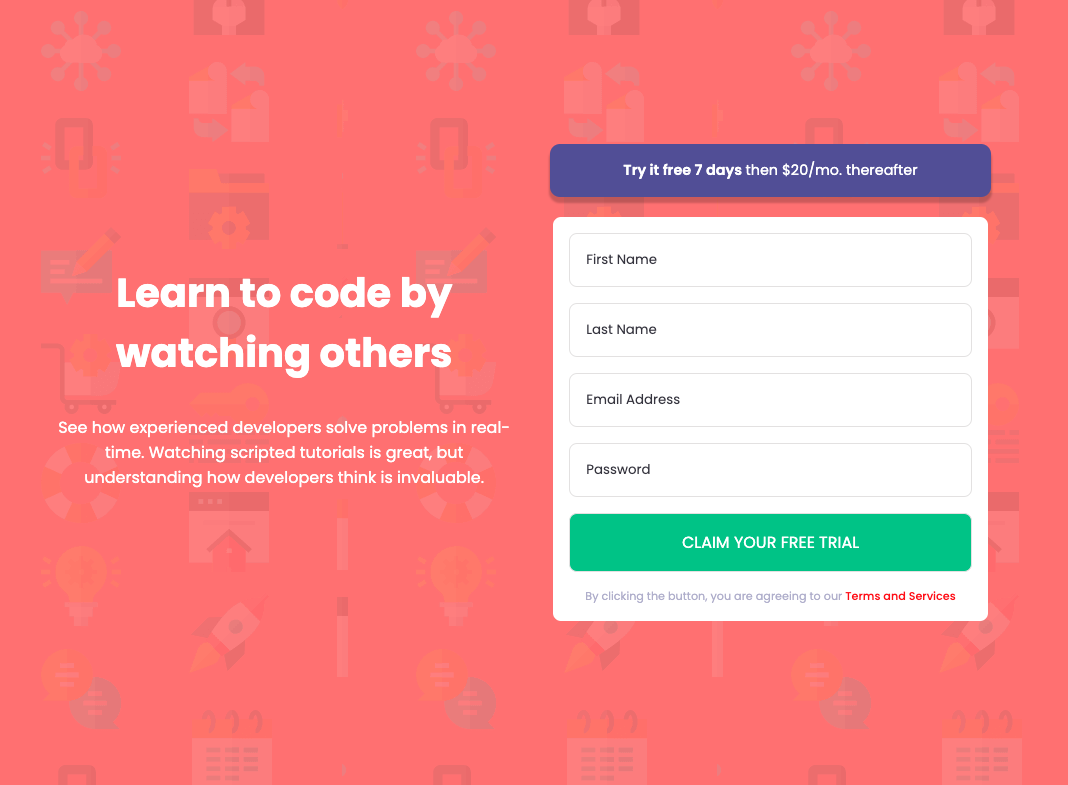
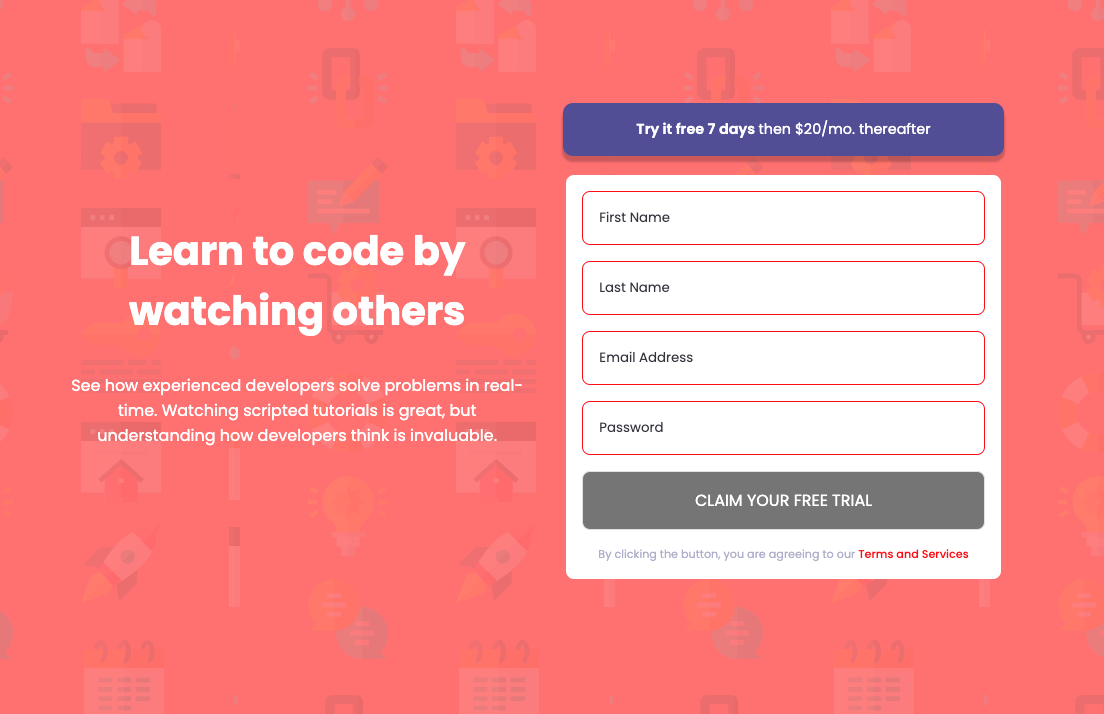
added javascript to check the input values

diff --git a/main.js b/main.js
@@ -1,0 +1,50 @@
+
+function _(id){
+    return document.getElementById(id)
+}
+
+function setupInput(id, rgx){
+    var elm = _(id)
+    elm.addEventListener('keyup', function(e){
+        var value = e.target.value;
+        if(rgx.test(value)){
+            // passed
+            e.target.classList.remove('invalid')
+
+            _("claim_button").disabled=false;
+            _("claim_button").classList.remove('disabled')
+
+            // console.log('pass')
+            // console.log(e.target)
+            // console.log(_("claim_button"))
+        }
+        else{
+            // failed
+            e.target.classList.add('invalid')
+
+            _("claim_button").disabled=true;
+            _("claim_button").classList.add('disabled')
+
+            // console.log('fail')
+            // console.log(e.target)
+            // console.log(_("claim_button"))
+        }
+    })
+}
+
+document.addEventListener("DOMContentLoaded", function(event) {
+    // Your code to be executed after the HTML content has loaded goes here
+        
+    setupInput('firstname', /^[0-9a-zA-Z]{1,30}$/)
+    setupInput('lastname', /^[0-9a-zA-Z]{1,30}$/)
+    setupInput('email', /^[^\s@]+@[^\s@]+\.[^\s@]+$/)
+    setupInput('password', /^(?=.*\d)(?=.*[a-z])(?=.*[A-Z])(?=.*[!@#$%^&*()_+\-=[\]{};':"\\|,.<>/?]).{8,}$/)
+
+    // Password Requirement
+    // Contains at least one digit (\d)
+    // Contains at least one lowercase letter ([a-z])
+    // Contains at least one uppercase letter ([A-Z])
+    // Contains at least one special character ([!@#$%^&*()_+\-=[\]{};':"\\|,.<>/?])
+    // Is at least 8 characters long (.{8,})
+  });
+

diff --git a/index.html b/index.html
@@ -40,12 +40,12 @@
       </div>
       
       <form action="">
-        <input type="text" placeholder="First Name"/>
-        <input type="text" placeholder="Last Name"/>
-        <input type="text" placeholder="Email Address"/>
-        <input type="password" placeholder="Password"/>
+        <input type="text" id="firstname" placeholder="First Name" class="invalid"/>
+        <input type="text" id="lastname" placeholder="Last Name" class="invalid"/>
+        <input type="text" id="email" placeholder="Email Address" class="invalid"/>
+        <input type="password" id="password" placeholder="Password" class="invalid"/>
         
-        <button>
+        <button id='claim_button' class="disabled" disabled>
           Claim your free trial 
         </button>
         
@@ -55,5 +55,8 @@
       </form>
     </section>
   </main>
+  
+  <script src="./main.js"></script>
+
   </body>
   </html>

diff --git a/style.css b/style.css
@@ -22,7 +22,7 @@
 
 body{
     width: 100vw;
-    height: 100vh;
+    min-height: 100vh;
     background-image: url("./images/bg-intro-mobile.png");
     background-color: var(--primary-red);
 
@@ -84,10 +84,23 @@ input, button {
     padding: 1rem;
     border-radius: 0.5rem;
     border: 1px solid rgb(230, 229, 229);
+    outline: none;
+}
+
+input:focus {
+    border-width: 2px;
+}
+
+input.invalid{
+   border-color: red;
+}
+
+button.disabled{
+    background-color: gray;
 }
 
 input::placeholder {
-        color: var(--neutral-dark-blue);
+        color: var(--neutral-dark-blue); 
         opacity: 1; /* Firefox */
 }
 
@@ -113,6 +126,8 @@ form button{
 section {
     
 }
+
+
 
 @media (min-width: 375px) {
     main{

diff --git a/README.md b/README.md
@@ -4,5 +4,15 @@ This is a solution to the [Intro component with sign up form challenge on Fronte
 
 ### Screenshot
 
+Red borders indicate invalid input.
 ![](./screenshot.png)
 
+With valid inputs
+![](./screenshot2.png)
+
+Password Requirement
+- Contains at least one digit (\d)
+- Contains at least one lowercase letter ([a-z])
+- Contains at least one uppercase letter ([A-Z])
+- Contains at least one special character ([!@#$%^&*()_+\-=[\]{};':"\\|,.<>/?])
+- Is at least 8 characters long (.{8,})
